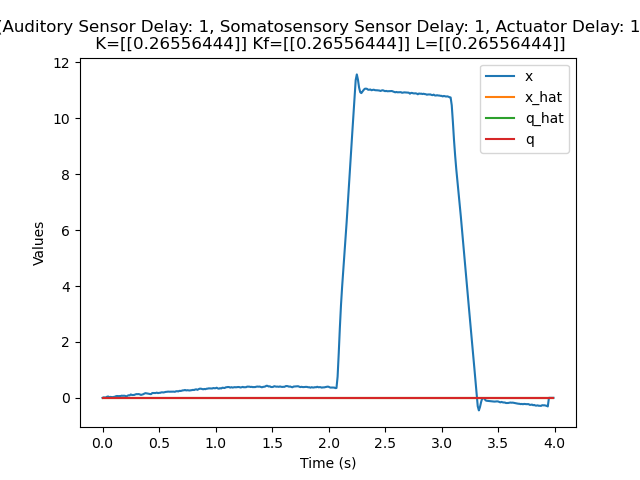
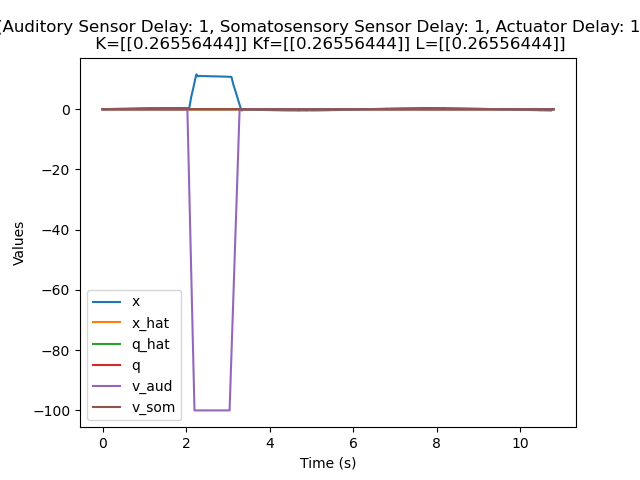
config structure in progress

diff --git a/src/visualization/plotting.py b/src/visualization/plotting.py
@@ -1,21 +1,28 @@
 import matplotlib.pyplot as plt
+from utils.pitchpert_dataprep import truncate_data
 
 # Configuration
 save_figs = True
[1 lines of base64/hex data omitted]
 
 class PlotMixin:
-    def plot_all(self, arch, custom_text=None):
+    def plot_all(self, arch, custom_sig=None, custom_text=None):
         plt.title(self.arch_title + ' Control System Simulation\n K=' + str(self.K1) + ' Kf=' + str(self.Kf) + ' L=' + str(self.L1))
         plt.xlabel('Time (s)')
         plt.ylabel('Values')
-        plt.plot(self.timeseires, self.x, label='x')
+        plt.plot(self.timeseries, self.x, label='x')
         if hasattr(self, 'x_hat'):
-            plt.plot(self.timeseires, self.x_hat, label='x_hat')
+            plt.plot(self.timeseries, self.x_hat, label='x_hat')
         if hasattr(self, 'q_hat'):
-            plt.plot(self.timeseires, self.q_hat, label='q_hat')
+            plt.plot(self.timeseries, self.q_hat, label='q_hat')
         if hasattr(self, 'q'):
-            plt.plot(self.timeseires, self.q, label='q')
+            plt.plot(self.timeseries, self.q, label='q')
+
+        if custom_sig:
+            if custom_sig == 'dist':
+                plt.plot(self.timeseries, self.v_aud, label='v_aud')
+                plt.plot(self.timeseries, self.v_som, label='v_som')
+
 
         if custom_text:
             plt.text(0.95, 0.05, custom_text, transform=plt.gca().transAxes,
@@ -78,11 +85,11 @@ class PlotMixin:
             
             # Plot each pair of signals
             for i, (data1, data2, label1, label2) in enumerate(signal_pairs):
-                axs[i, 0].plot(self.timeseires[custom_time], data1[custom_time], label=label1)
+                axs[i, 0].plot(self.timeseries[custom_time], data1[custom_time], label=label1)
                 axs[i, 0].set_ylabel(label1)
                 axs[i, 0].legend(loc='upper right')
                 
-                axs[i, 1].plot(self.timeseires[custom_time], data2[custom_time], label=label2)
+                axs[i, 1].plot(self.timeseries[custom_time], data2[custom_time], label=label2)
                 axs[i, 1].set_ylabel(label2)
                 axs[i, 1].legend(loc='upper right')
                 
@@ -99,7 +106,7 @@ class PlotMixin:
     
         if '2-Sensor System' not in self.arch_title:
             for i, (data, label) in enumerate(zip(plot_list, plot_labels)):
-                axs[i].plot(self.timeseires[custom_time], data[custom_time], label=label)
+                axs[i].plot(self.timeseries[custom_time], data[custom_time], label=label)
                 axs[i].set_ylabel(label)
                 axs[i].legend(loc='upper right')
 
@@ -117,10 +124,10 @@ class PlotMixin:
         plt.title(self.arch_title + ' Control System Simulation\n K=' + str(self.K1) + ' Kf=' + str(self.Kf) + ' L=' + str(self.L1))
         plt.xlabel('Time (s)')
         plt.ylabel('Values')
-        plt.plot(self.timeseires, self.x, label='x')
-        plt.plot(self.timeseires, self.y, label='y', linestyle='--')
-        plt.plot(self.timeseires, self.y_tilde, label='y_tilde', linestyle='--')
-        plt.plot(self.timeseires, self.r, label='r')
+        plt.plot(self.timeseries, self.x, label='x')
+        plt.plot(self.timeseries, self.y, label='y', linestyle='--')
+        plt.plot(self.timeseries, self.y_tilde, label='y_tilde', linestyle='--')
+        plt.plot(self.timeseries, self.r, label='r')
 
         if custom_text:
             plt.text(0.95, 0.05, custom_text, transform=plt.gca().transAxes,
@@ -138,6 +145,24 @@ class PlotMixin:
         plt.show()
     def plot_signal(self, signal, label):
         plt.plot(self.timeseries, signal, label=label)
+        plt.legend()
+        plt.show()
+    def plot_truncated(self, start_time, end_time):
+        #signals to plot
+        signals = [self.v_aud, self.v_som, self.y_aud, self.x]
+        labels = ['v_aud', 'v_som', 'y_aud', 'x']
+
+        #truncate data
+        for i, signal in enumerate(signals):
+            signal_trunc = truncate_data(self.timeseries, signal, start_time, end_time)
+            time_trunc = truncate_data(self.timeseries, self.timeseries, start_time, end_time)
+            plt.plot(time_trunc, signal_trunc, label=labels[i], linestyle='--')
+
+        # plt.plot(self.time_trunc[start_time:end_time], self.v_aud[start_time:end_time], label='v_aud', linestyle='--')
+        # plt.plot(self.timeseries[start_time:end_time], self.v_som[start_time:end_time], label='v_som', linestyle='--')
+        # plt.plot(self.timeseries[start_time:end_time], self.y_aud[start_time:end_time], label='y_aud', linestyle='-')
+        # plt.plot(self.timeseries[start_time:end_time], self.x[start_time:end_time], label='x', linestyle='-')
+
         plt.legend()
         plt.show()
 

diff --git a/src/pitch_perts.py b/src/pitch_perts.py
@@ -1,5 +1,6 @@
 import numpy as np
 import os
+import yaml
 import matplotlib.pyplot as plt
 from scipy.interpolate import interp1d
 
@@ -10,6 +11,22 @@ from visualization.plotting import PlotMixin
 from utils.pitchpert_dataprep import data_prep, truncate_data
 from utils.signal_synth import RampedStep1D
 
+
+
+# Initialize the config loader
+with open("src/configs/experiment.yaml", "r") as f:
+    config_expt = yaml.safe_load(f)
+
+with open("src/configs/paths.yaml", "r") as f:
+    config_paths = yaml.safe_load(f)
+
+# Example usage
+dt = config_expt['simulation']['sec_per_step']
+A = np.array(config_expt['starting_params']['system']['A'])
+
+# Get experiment parameters
+
+#TODO: Make config file that doesn't get pushed, add to gitignore
 #Save Path
 save_path = '/Users/rachelmendelsohn/Desktop/Salk/ArticulatoryFeedback/NewVSLCodebase/Interp_Data'
 #Calibration Data Path
@@ -17,6 +34,7 @@ data_dir='/Users/rachelmendelsohn/Desktop/Salk/ArticulatoryFeedback/Calibration_
 filename = 'secs_Smith-et-al-2020-auditory-perturbation-baseline-normalized.csv'
 data_path = os.path.join(data_dir, filename)
 
+#TODO: Experiment config file
 ###Define Perturbation Experiment Parameters
 duration = 10.8 # Duration of each trial in seconds
 sec_per_step = 0.01
@@ -47,20 +65,25 @@ pert_signal = RampedStep1D(duration, dt=sec_per_step, tstart_step=pert_onset, t_
                                             dist_duration=pert_duration, ramp_up_duration=ramp_up_duration, 
                                             ramp_down_duration=ramp_down_duration,
                                         sig_label='Step pertubation')
-pert_signal.plot_signal(pert_signal.signal, 'Perturbation Signal')
+#pert_signal.plot_signal(pert_signal.signal, 'Perturbation Signal')
 
 ###Run Simulation
 # Simulation parameters
 A = np.array([0.5])
 B = np.array([1])
 C = np.array([1])
-ref_item = 'sin' #'sin' or 'null'
-actuator_delays = 0
-sensor_delays = 3
 
-system = AbsEstController(A, B, C, ref_item, dist_custom=pert_signal.signal, dist_type='Auditory')    
-system.simulate_with_2sensors()
-system.plot_transient('abs2sens', start_dist=pert_signal.start_ramp_up) 
-system.plot_all('abs2sens')
+R_val=0.5
+RN_val=1
 
+ref_item = 'null' #'sin' or 'null'
+actuator_delay = int(0.01/sec_per_step)
+sensor_delay_aud = int(0.1/sec_per_step)
+sensor_delay_som = int(0.1/sec_per_step)
+
+system = AbsEstController(A, B, C, ref_item, dist_custom=pert_signal.signal, dist_type=['Auditory','Somatosensory'], timeseries=T_sim, tune_R=R_val, tune_RN=RN_val)    
+system.simulate_with_2sensors(delta_t_s_aud=sensor_delay_aud, delta_t_s_som=sensor_delay_som, delta_t_a=actuator_delay)
+#system.plot_transient('abs2sens', start_dist=pert_signal.start_ramp_up) 
+system.plot_all('abs2sens', custom_sig='dist')
+#system.plot_truncated(truncate_start, truncate_end)
   

diff --git a/src/controllers/base.py b/src/controllers/base.py
@@ -2,7 +2,7 @@ import numpy as np
 import control as ct
 
 class ControlSystem:
-    def __init__(self, input_A, input_B, input_C, ref_type='sin', dist_custom=None, dist_type=['State']):
+    def __init__(self, input_A, input_B, input_C, ref_type='sin', dist_custom=None, dist_type=['State'], timeseries=None, tune_R=1, tune_RN=1):
         #NOTE: input arguments can describe certain features of the system matrices,
         #but currently are used to directly as the matrices A, B, C, Q and R
         self.A = input_A
@@ -10,11 +10,15 @@ class ControlSystem:
         self.C = input_C
 
         ###Simulation parameters
-        self.dt = 0.01
-        self.T = 4 #seconds
+        if timeseries is not None:
+            self.timeseries = timeseries
+            self.time_length = len(self.timeseries)
+        else:    
+            self.dt = 0.01
+            self.T = 4 #seconds
 
-        self.timeseires=np.arange(0,self.T,self.dt)  
-        self.time_length = len(self.timeseires)
+            self.timeseries=np.arange(0,self.T,self.dt)  
+            self.time_length = len(self.timeseries)
 
         ###System parameters
         self.y_tilde = np.zeros((self.time_length,1))
@@ -78,9 +82,10 @@ class ControlSystem:
         self.q_hat = np.zeros((self.time_length,1))
         self.q = np.zeros((self.time_length,1))
 
+        print(type(timeseries))
         self.ref_type = ref_type
         if self.ref_type == 'sin':
-            self.r = np.sin(self.timeseires).reshape(-1, 1)
+            self.r = np.sin(self.timeseries).reshape(-1, 1)
         elif self.ref_type == 'null':
             self.r = np.zeros((self.time_length,1))
 
@@ -88,8 +93,8 @@ class ControlSystem:
         self.calculate_gains(self.A, self.B, self.C)
         
         # Calculate gains for auditory and somatosensory controllers
-        self.calculate_gains(self.A, self.B, self.C, prefix='aud_')
-        self.calculate_gains(self.A, self.B, self.C, prefix='som_')
+        self.calculate_gains(self.A, self.B, self.C, tune_R=tune_R, tune_RN=tune_RN, prefix='aud_')
+        self.calculate_gains(self.A, self.B, self.C, tune_R=tune_R, tune_RN=tune_RN, prefix='som_')
 
     def calculate_gains(self, A, B, C, tune_R=1, tune_RN=1, prefix=''):
         # Calculate control and sensor gains

diff --git a/src/controllers/implementations.py b/src/controllers/implementations.py
@@ -27,6 +27,7 @@ class AbsEstController(ControlSystem, AnalysisMixin, PlotMixin):
             self.arch_title = '2-Sensor System, Delays (Auditory Sensor Delay: ' + str(delta_t_s_aud) + ', Somatosensory Sensor Delay: ' + str(delta_t_s_som) + ', Actuator Delay: ' + str(delta_t_a) + ')'
         for t in range(0,self.time_length-1-(delta_t_s_aud+1+delta_t_s_som+1+delta_t_a)):
             #Brain Implementation
+            #TODO: One function for all sensors
             ##Auditory Sensor
             self.y_aud[t] = self.y[t]+self.v_aud[t]
             self.y_tilde_aud[t]=self.y_aud[t]-self.C*self.x_hat_aud[t]-self.L_del*self.x_s_aud[t]
